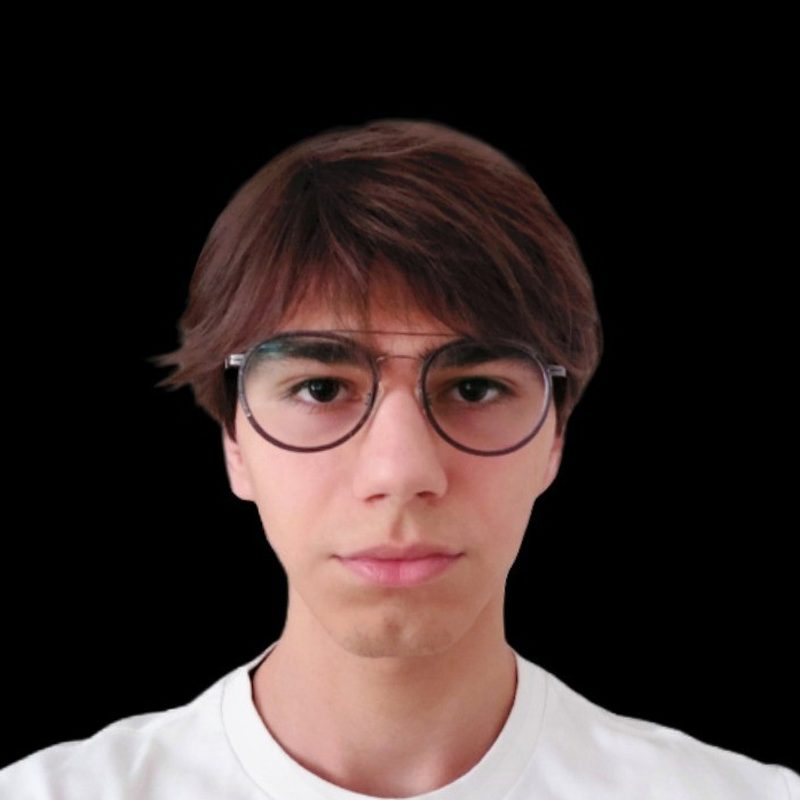
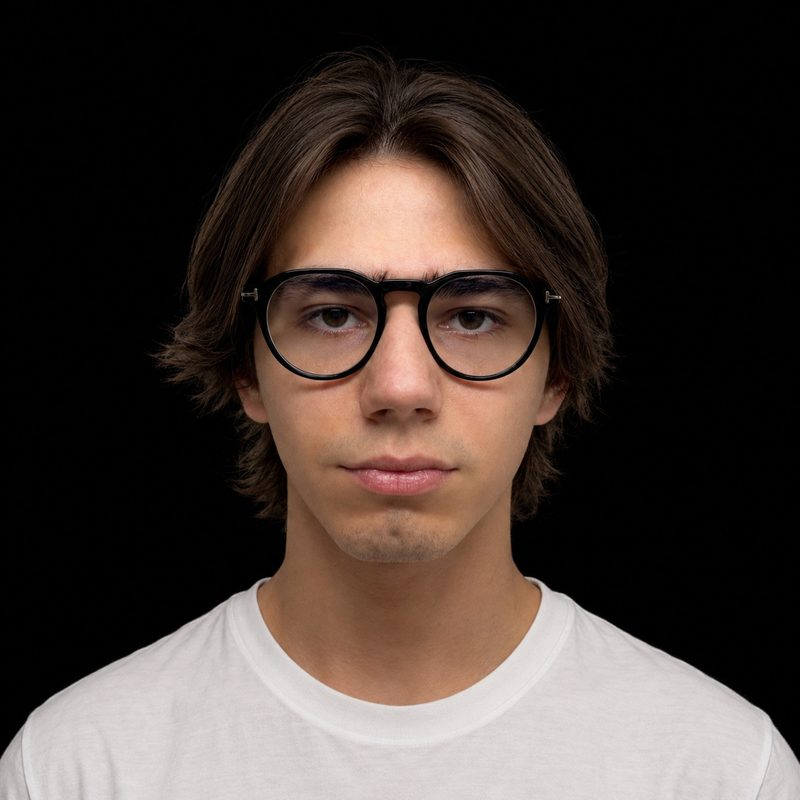
feat: Yasmeen Masalmeh, and Danylo's updated portraits
- New Research Assistants group, ready for Nadia's profile too. Placed
  last so nobody already listed gets re-ranked.
- Yasmeen's bio and LinkedIn are verbatim from her own submission. Her
  focus tags are lifted from that bio rather than supplied, and are
  flagged in the file as hers to correct.
- photo-7 and photo-8 replaced with Danylo's own versions, and all three
  new files re-encoded to the set's 800px / quality 82. photo-8 alone
  came in at 1.7MB; the whole folder is now 429K for nine portraits.

diff --git a/content/team.ts b/content/team.ts
@@ -14,6 +14,9 @@
  *   photo-6  Jeff Brooks       jeffreyallenbrooks.github.io
  *   photo-7  Danylo Provodov   confirmed by Danylo
  *   photo-8  Illia Orel        supplied directly by Danylo
+ *   photo-10 Yasmeen Masalmeh  supplied by Yasmeen via Danylo
+ * photo-7 and photo-8 were later replaced by Danylo with better originals;
+ * photo-9 is deliberately unused, so the numbering matches what he sent.
  * Do NOT reorder these by the document's image order: the images are NOT
  * stored in team order, which is what produced an earlier wrong mapping.
  * Sources are public/team/photo-1.jpg … photo-7.jpg, square-cropped from
@@ -30,13 +33,18 @@ const PHOTO_BY_ID: Record<string, string> = {
   "jeff-brooks": "/team/photo-6.jpg",
   "danylo-provodov": "/team/photo-7.jpg",
   "illia-orel": "/team/photo-8.jpg",
+  "yasmeen-masalmeh": "/team/photo-10.jpg",
 };
 
 /** The photo for a person, or undefined so the card falls back to initials. */
 export function photoFor(id: string): string | undefined {
   return PHOTO_BY_ID[id];
 }
-export type TeamGroup = "directors" | "scientists" | "engineering";
+export type TeamGroup =
+  | "directors"
+  | "scientists"
+  | "engineering"
+  | "assistants";
 
 export interface TeamLink {
   label: string;
@@ -222,12 +230,38 @@ export const TEAM: Person[] = [
     placeholder: true,
     hue: "slate",
   },
+  {
+    id: "yasmeen-masalmeh",
+    name: "Yasmeen Masalmeh",
+    role: "Research Assistant",
+    group: "assistants",
+    affiliation:
+      "Industrial Engineering student, American University of Bahrain",
+    bio: "Yasmeen Masalmeh is a Research Assistant at the AI Empathy Lab and an Industrial Engineering student at the American University of Bahrain. She enjoys working on problems that combine structured thinking with a strong focus on system optimization and improvement. Her work at the lab focuses on optimizing and reviewing AI systems, evaluating their performance and identifying areas for improvement, an area she is exploring further in a research paper. Alongside her engineering studies, Yasmeen has a strong interest in UI/UX, data science, and graphic design. She is especially interested in building strategically designed systems that always keep the user in mind.",
+    // Unlike the others, her submission carried no "Research focus" line;
+    // these are lifted from her own bio rather than supplied, so they are
+    // hers to correct.
+    focus: [
+      "System optimization",
+      "AI system evaluation",
+      "UI/UX",
+      "Data science",
+    ],
+    links: [
+      {
+        label: "LinkedIn",
+        href: "https://www.linkedin.com/in/yasmeen-masalmeh/",
+      },
+    ],
+    hue: "iris",
+  },
 ];
 
 export const TEAM_GROUPS: { key: TeamGroup; title: string }[] = [
   { key: "directors", title: "Directors" },
   { key: "scientists", title: "Research Scientists" },
   { key: "engineering", title: "Engineering" },
+  { key: "assistants", title: "Research Assistants" },
 ];
 
 export function personById(id: string): Person | undefined {
